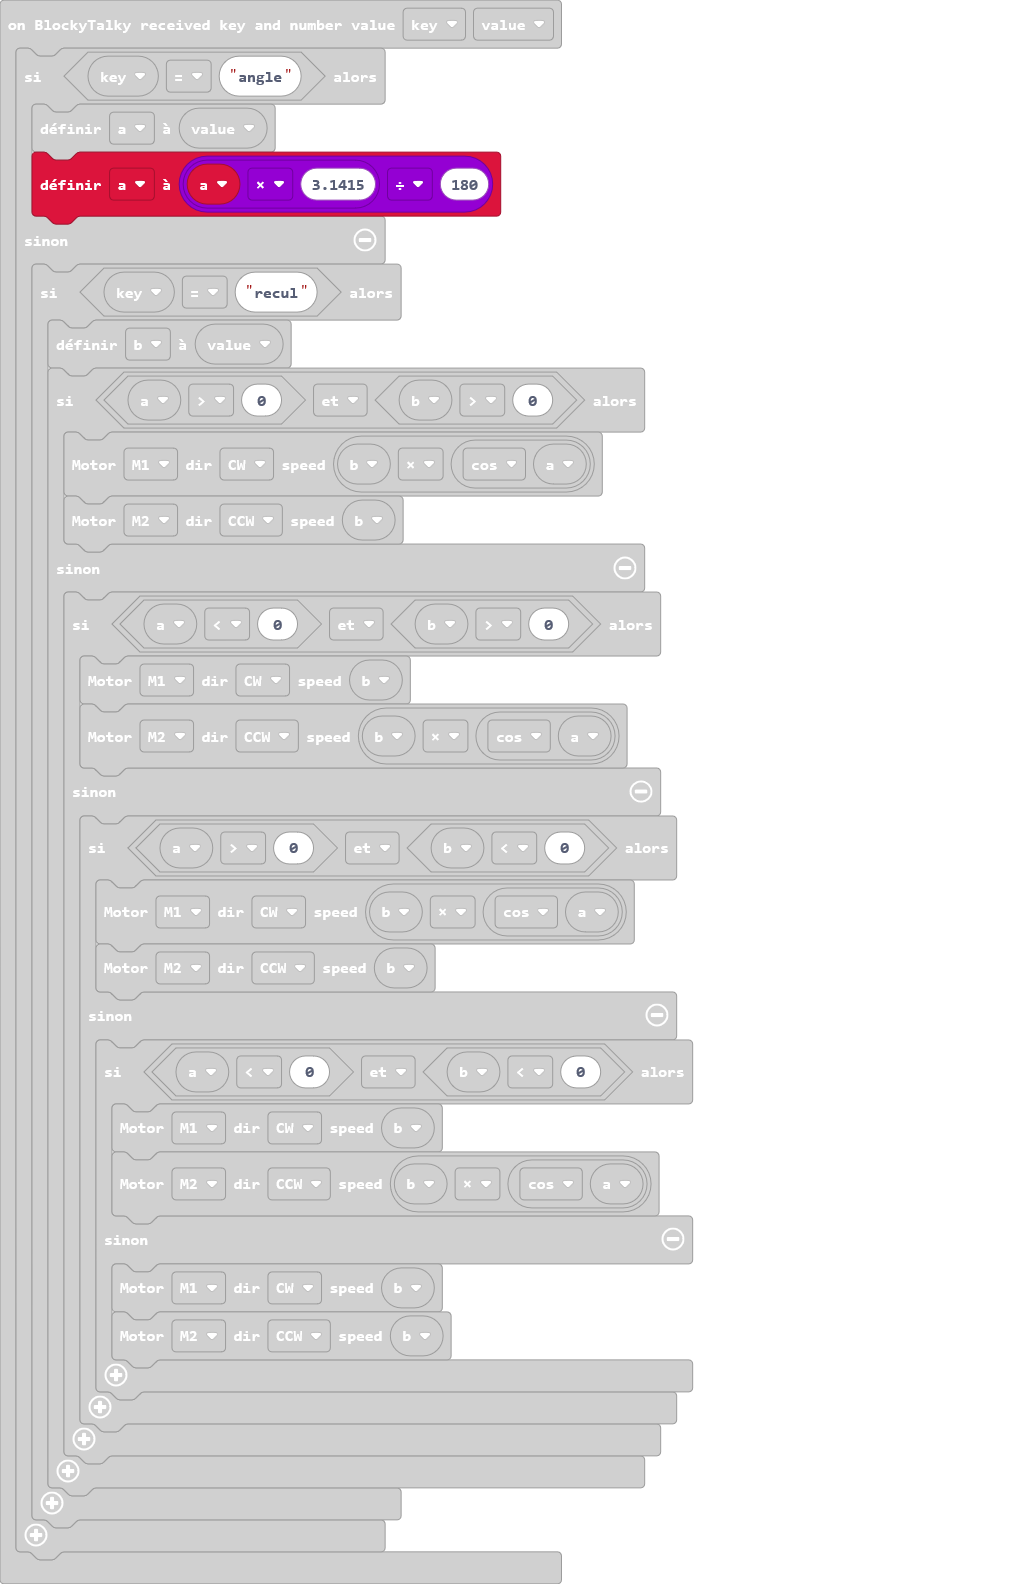
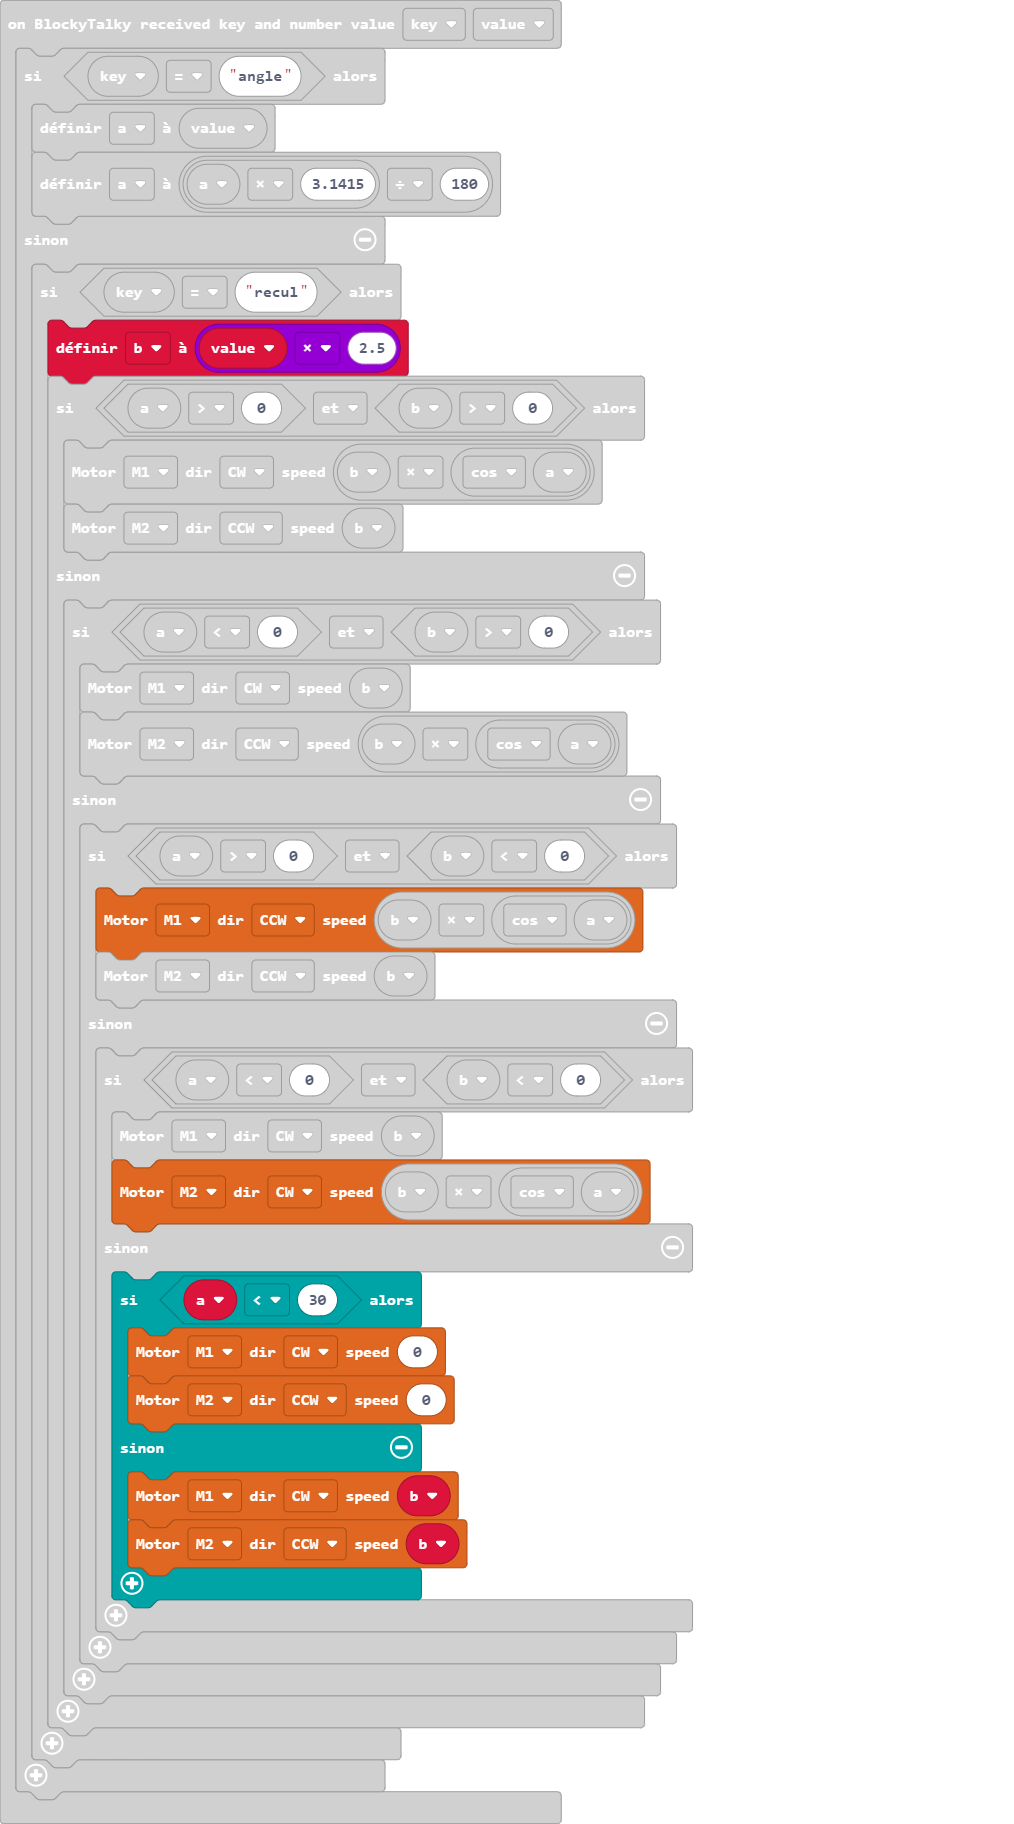
Mise à jour main.blocks, main.ts

Changed region(s): [[0.0306, 0.0, 0.7032, 0.9899], [0.5503, 0.9899, 0.5809, 1.0]]

diff --git a/main.ts b/main.ts
@@ -4,7 +4,7 @@ blockytalky.onReceivedNumber(function (key, value) {
         a = a * 3.1415 / 180
     } else {
         if (key == "recul") {
-            b = value
+            b = value * 2.5
             if (a > 0 && b > 0) {
                 motor.MotorRun(motor.Motors.M1, motor.Dir.CW, b * Math.cos(a))
                 motor.MotorRun(motor.Motors.M2, motor.Dir.CCW, b)
@@ -14,15 +14,20 @@ blockytalky.onReceivedNumber(function (key, value) {
                     motor.MotorRun(motor.Motors.M2, motor.Dir.CCW, b * Math.cos(a))
                 } else {
                     if (a > 0 && b < 0) {
-                        motor.MotorRun(motor.Motors.M1, motor.Dir.CW, b * Math.cos(a))
+                        motor.MotorRun(motor.Motors.M1, motor.Dir.CCW, b * Math.cos(a))
                         motor.MotorRun(motor.Motors.M2, motor.Dir.CCW, b)
                     } else {
                         if (a < 0 && b < 0) {
                             motor.MotorRun(motor.Motors.M1, motor.Dir.CW, b)
-                            motor.MotorRun(motor.Motors.M2, motor.Dir.CCW, b * Math.cos(a))
+                            motor.MotorRun(motor.Motors.M2, motor.Dir.CW, b * Math.cos(a))
                         } else {
-                            motor.MotorRun(motor.Motors.M1, motor.Dir.CW, b)
-                            motor.MotorRun(motor.Motors.M2, motor.Dir.CCW, b)
+                            if (a < 30) {
+                                motor.MotorRun(motor.Motors.M1, motor.Dir.CW, 0)
+                                motor.MotorRun(motor.Motors.M2, motor.Dir.CCW, 0)
+                            } else {
+                                motor.MotorRun(motor.Motors.M1, motor.Dir.CW, b)
+                                motor.MotorRun(motor.Motors.M2, motor.Dir.CCW, b)
+                            }
                         }
                     }
                 }
